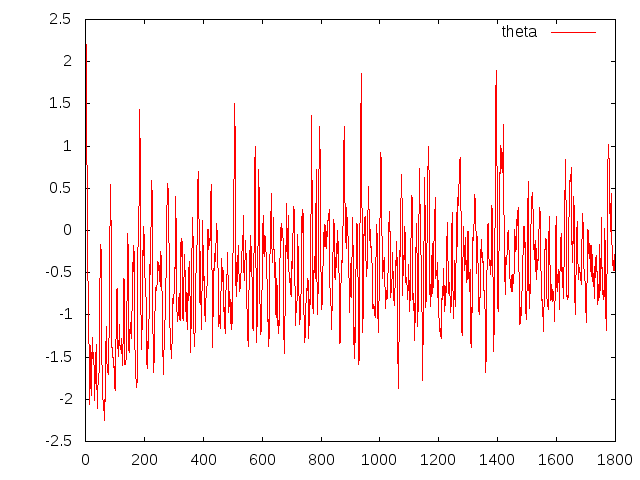
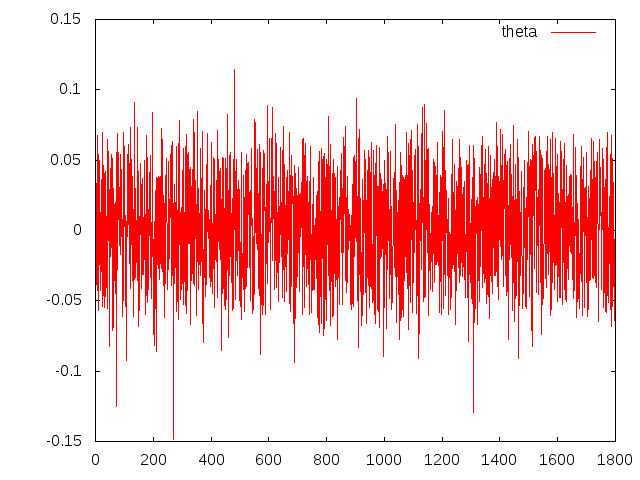
all

diff --git a/c/pole/0.5.5-plot/gnuplot.c b/c/pole/0.5.5-plot/gnuplot.c
@@ -54,7 +54,7 @@ int main(int argc, char **argv)
 
 	// rhat_L
 	// rhat_R
-// left, right, r_hat[0], r_hat[1], h, h_dot, theta, theta_dot, force 
+// left, right, r_hat[0], r_hat[1], theta, theta_dot, h, h_dot, force 
 // 0 0 0.0113 0.0113 -0.0755 -0.0499 0.9063 0.6871 0.0000
 
 	// force for first steps
@@ -79,12 +79,12 @@ int main(int argc, char **argv)
 	// theta and thetadot for sampled steps
 	sprintf(output, "180k-train-theta.png");
         fprintf(gp, "set output '%s'\n", output);
-        fprintf(gp, "plot \"%s\" every 100 using 7 title 'theta' with lines\n", fname);
+        fprintf(gp, "plot \"%s\" every 100 using 5 title 'theta' with lines\n", fname);
 	printf("%s created\n", output);
 
 	sprintf(output, "180k-train-thetadot.png");
         fprintf(gp, "set output '%s'\n", output);
-        fprintf(gp, "plot \"%s\" every 100 using 8 title 'theta_dot' with lines\n", fname);
+        fprintf(gp, "plot \"%s\" every 100 using 6 title 'theta_dot' with lines\n", fname);
 	printf("%s created\n", output);
 	
         fclose(gp);
